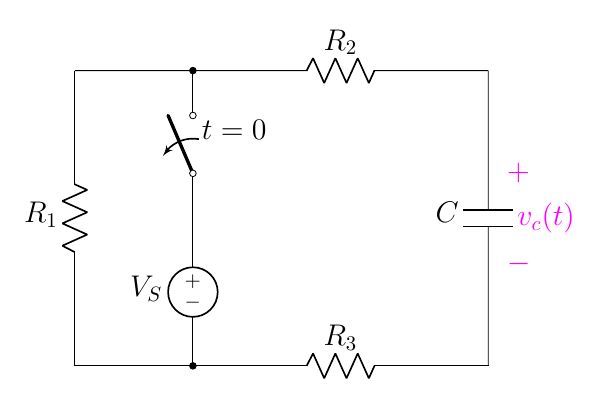
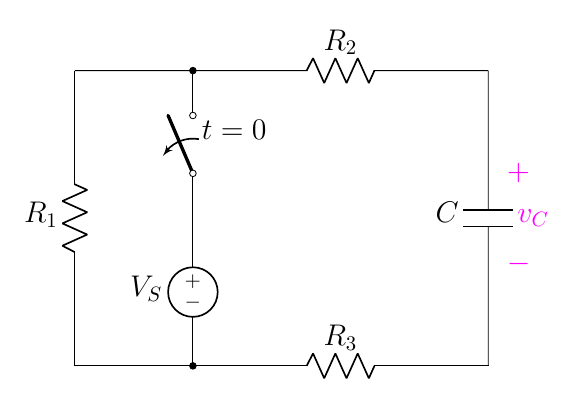
8.20

diff --git a/2.2 Source-Free RC/8.3 The Source-Free RC Circuit/8.20(new).tex b/2.2 Source-Free RC/8.3 The Source-Free RC Circuit/8.20(new).tex
@@ -26,7 +26,7 @@
     %%% find %%%
     \node at(2.7,4) []{$t=0$};
     \draw[magenta](7.2,1.5)
-        to[open,v>=$v_c(t)$] ++(0,2);
+        to[open,v>=$v_C$] ++(0,2);
 
 \end{circuitikz}
 \end{document}
